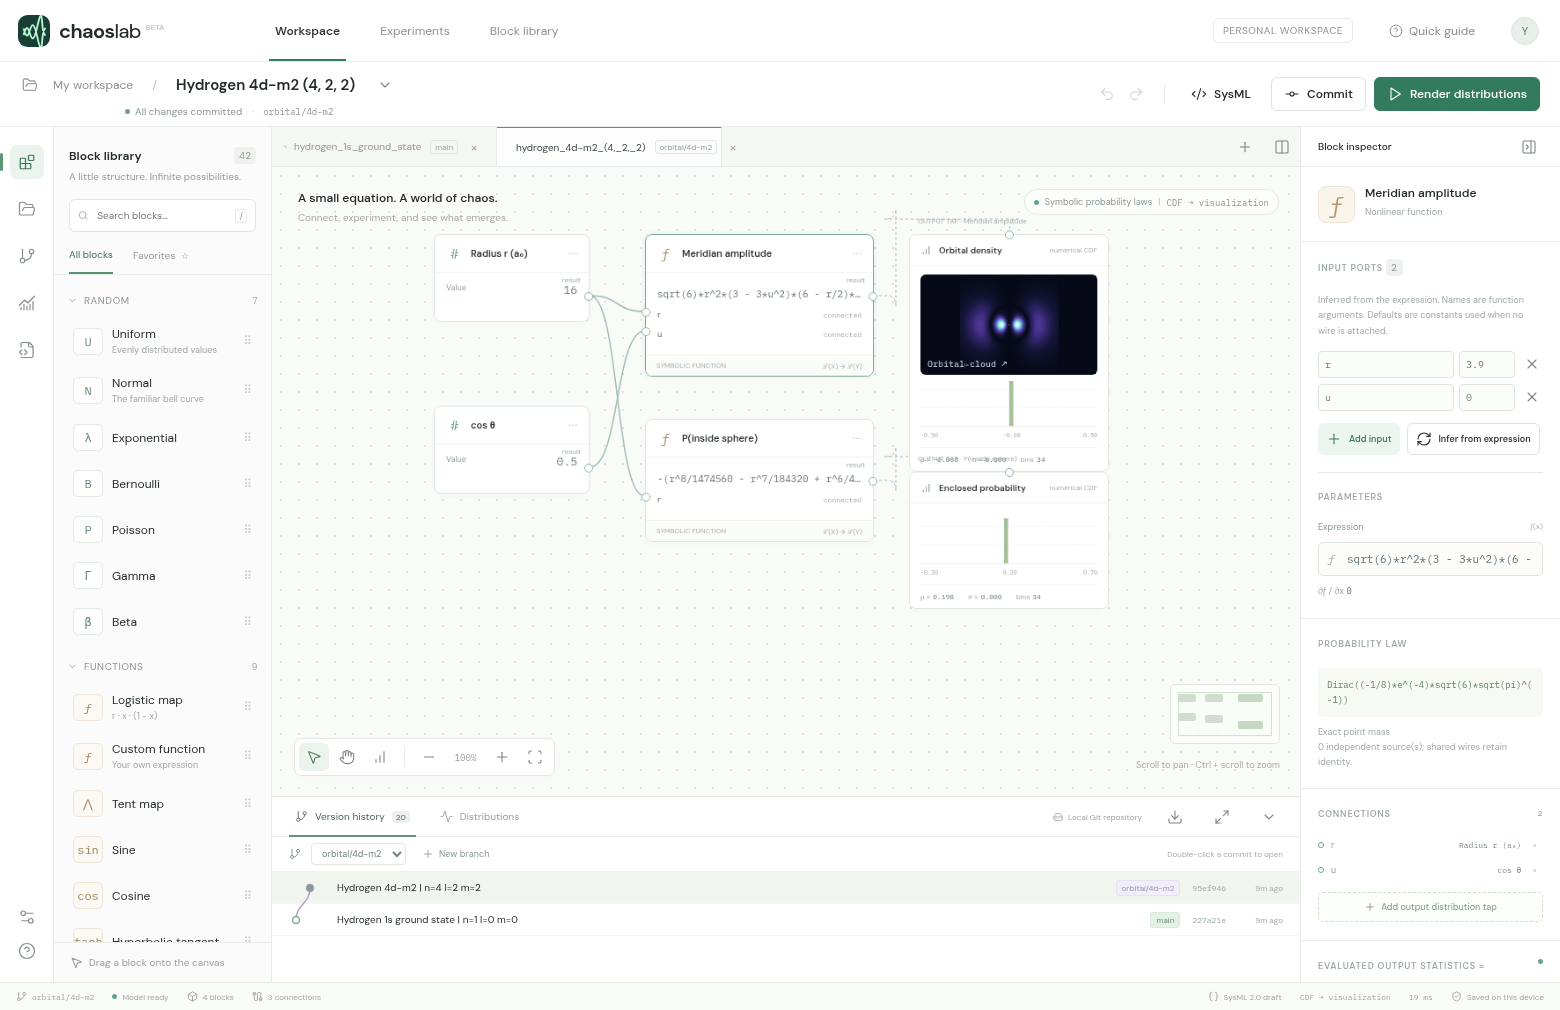
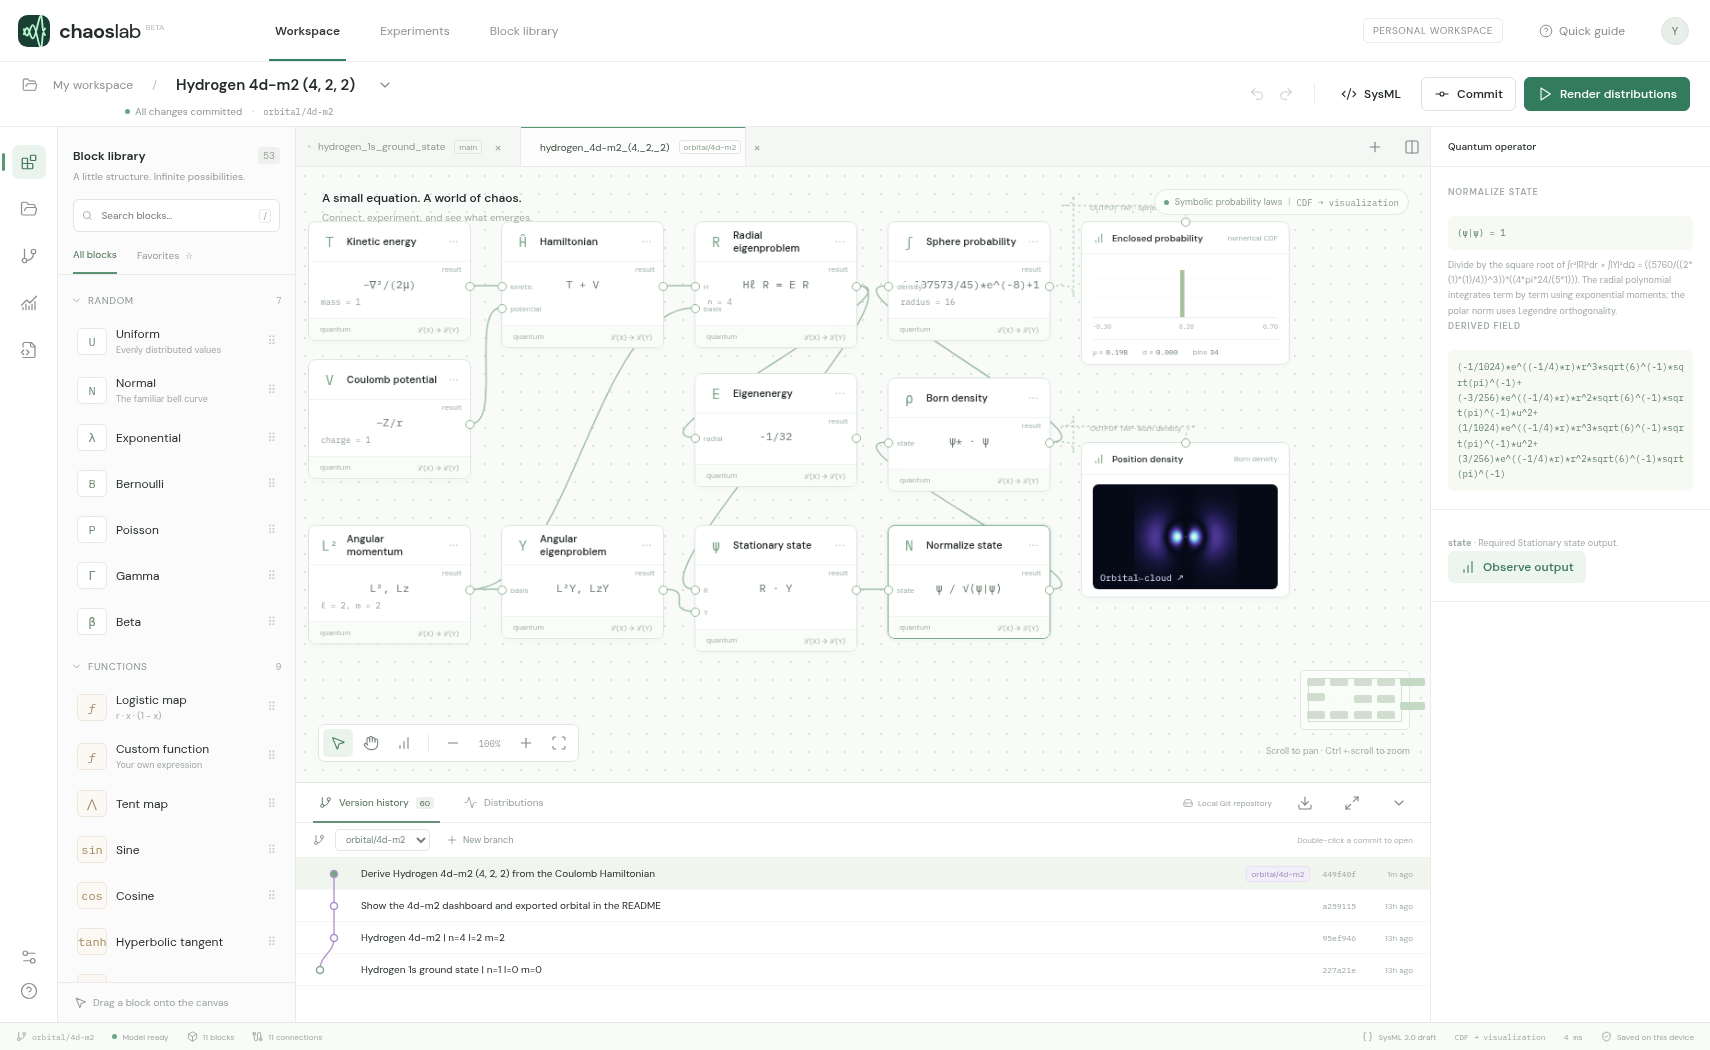
Show the derived state and operator graph for orbital/4d-m2

diff --git a/README.md b/README.md
@@ -4,6 +4,8 @@ Open **Version history** in Chaos Lab to explore the 20 hydrogen designs in this
 
 ## Hydrogen 4d (n = 4, ℓ = 2, m = 2)
 
+The connected Hamiltonian and eigenstate solvers give $E=-1/32$ Hartree for this state.
+
 ![Chaos Lab dashboard with the 4d model, m = 2, open in version history](dashboard.png)
 
 Radial nodes: 1. Polar nodes: 0. Plot half-width: 32 Bohr radii.
@@ -22,7 +24,7 @@ cd hydrogen_wavefunction
 python studio.py
 ```
 
-On Windows you can use `py studio.py`. On Linux you can use `python3 studio.py`. The first launch downloads the pinned Chaos Lab browser build. Double-click a commit to open it in a tab. Open another and use **Split view** to compare them. **Orbital cloud ↗** opens the spatial plots. The launcher reads the Git objects from your clone, including origin branches. Run `git fetch origin` and restart the launcher to load new remote branches.
+On Windows you can use `py studio.py`. On Linux you can use `python3 studio.py`. The first launch downloads the pinned Chaos Lab browser build. Double-click a commit to open it in a tab. Open another and use **Split view** to compare them. **Orbital cloud ↗** opens the spatial plots. The launcher reads the Git objects from your clone, including origin branches. For an existing clone, update the checked-out branch with `git pull --ff-only`, fetch the other branches with `git fetch origin`, and restart the launcher. Double-click the latest commit for the design you want to explore.
 
 To compare states with the same radial law, open `orbital/2p-m0` and `orbital/2p-m1`. At the same radius their enclosed-probability probes agree. The first slice is dark on the equatorial plane, while the second is dark along the polar axis.
 
@@ -32,7 +34,17 @@ To compare states with the same radial law, open `orbital/2p-m0` and `orbital/2p
 
 Branch names encode `(n, ℓ, m)`. For example, `orbital/3d-m1` is `(3,2,1)`. Each snapshot includes the editable graph, its compiled symbolic representation, and its SysML text. Each excited-state branch also contains a reference cross-section.
 
-Coordinates are in Bohr radii. These are normalized fixed-proton, nonrelativistic spatial eigenstates in the complex spherical-harmonic basis. For a fixed m the azimuthal phase is exp(i m φ), so probability density is axially symmetric. The graph evaluates the real meridian amplitude at φ = 0 using radius r and u = cos θ. Its square is probability per unit volume. The sphere probe integrates the radial Born law. The field tap sweeps the same amplitude expression for the x–z slice and its projected detections. Detections are drawn for display from a numerical grid of the final density including the r² volume factor. Brightness and plotting windows are scaled per orbital.
+## How the graph derives this orbital
+
+1. **Kinetic energy** and **Coulomb potential** supply the relative-coordinate operators in atomic units. Their wires feed **Hamiltonian**, which constructs $H=-\nabla^2/(2\mu)-Z/r$. The default is a fixed proton, $Z=\mu=1$.
+2. **Angular momentum** selects the joint eigenvalues of $L^2$ and $L_z$. **Radial eigenproblem** uses that angular eigenvalue in the centrifugal term. Regularity at the origin, decay at infinity, and radial-series termination give the polynomial and energy. **Angular eigenproblem** constructs the polar polynomial by Rodrigues differentiation and includes the phase $e^{im\phi}$.
+3. **Stationary state** multiplies the separated basis functions. **Normalize state** computes their norm with the spherical volume measure. **Born density** takes the squared modulus of the normalized state. **Sphere probability** integrates that density to the probe radius.
+4. Select a block to inspect its equation and derivation. Change **Nuclear charge** from 1 to 2. The energy becomes four times more negative and the orbital contracts by a factor of two. The plot rescales with the orbital, so use its Bohr-radius scale bar to see the change.
+
+The central slice evaluates the final density in the x–z plane. Projected detections sample the final density on a finite radial and angular grid with the spherical volume factor. Coordinates use Bohr radii and energy uses Hartree.
+
+The branch stores the operator graph in `model.json`, its derived fields and scalar laws in `model.symbolic.json`, and the block connections in `model.sysml`. With SymPy installed, run `python tools/verify_state.py` in a checkout of this branch to check the eigenvalue equations, normalization, radial reference solution and sphere integral.
+
 
 | n | ℓ | m | Design branch |
 |---|---|---|---|
